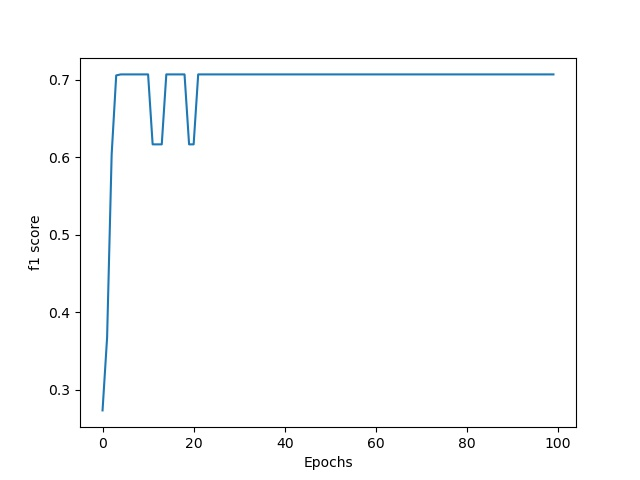
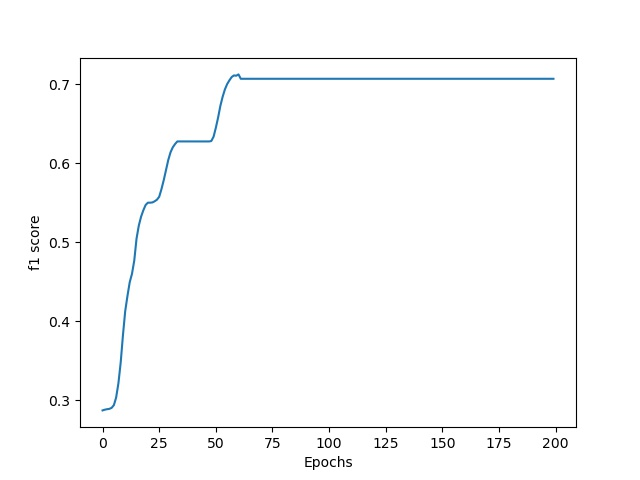
Update

diff --git a/test-lstm.py b/test-lstm.py
@@ -1,18 +1,18 @@
-import numpy as np 
+import numpy as np
 import os
 import pandas as pd
 import torch
 import torch.nn as nn
 import utils
 from torch.utils.data import Dataset, DataLoader
-from net import rnn
+from models import rnn
 import math
 from tqdm import tqdm
-from utils.Setloader import TestSetloader
+from utils.utils import TestSetloader
 
-PATH_submission_example = r'./results/submission_example.csv'
+PATH_submission_example = r'D:\dataset\2021智慧農業數位分身創新應用競賽\org\submission.csv'
 PATH_submission = r'./results/submission.csv'
-PATH_test = r'D:\dataset\2021智慧農業數位分身創新應用競賽\generate_dateset\test_data.npy'
+PATH_test = r'D:\dataset\2021智慧農業數位分身創新應用競賽\dataset_lstm\test_data.npy'
 
 threshold = torch.tensor([0.5])
 
@@ -21,7 +21,6 @@ if torch.cuda.is_available():
     print('Test on GPU...')
 else:
     device = torch.device('cpu')
-
 
 data = np.load(PATH_test, allow_pickle=True)
 data = torch.tensor(data, dtype=torch.float)
@@ -33,24 +32,25 @@ model = rnn.rnn(input_size=18, output_size=11)
 model.to(device)
 
 # 載入預訓練權重
-model.load_state_dict(torch.load('./weights/epoch100-loss0.0682-val_loss0.1551-f10.7070.pth'))
+model.load_state_dict(
+    torch.load('./weights/epoch119-loss0.0835-val_loss0.1468-f10.7070.pth'))
 
 #評估模式
 model.eval()
-outputs_list = np.empty((0,11)) # 11維特徵
+outputs_list = np.empty((0, 11))  # 11維特徵
 total_val_loss = 0
 with tqdm(testloader) as pbar:
     with torch.no_grad():
         for inputs in testloader:
             inputs = inputs.to(device)
-            inputs = inputs.permute(1,0,2)
+            inputs = inputs.permute(1, 0, 2)
             outputs = model(inputs)
-            outputs = (outputs.cpu() > threshold).float()*1
+            outputs = (outputs.cpu() > threshold).float() * 1
             outputs_list = np.vstack((outputs_list, outputs))
             #更新進度條
             pbar.set_description('test')
             pbar.update(1)
 print(outputs_list.shape)
 df = pd.read_csv(PATH_submission_example, index_col=0)
-df.iloc[:,:] = outputs_list
+df.iloc[:, :] = outputs_list
 df.to_csv(PATH_submission)

diff --git a/train-lstm.py b/train-lstm.py
@@ -34,9 +34,9 @@ else:
 # 參數設計
 # batch_size = data.shape[0]
 batch_size = 2000
-epochs = 100
+epochs = 200
 train_rate = 0.8  # 訓練資料集的比例
-lr = 1e-3
+lr = 1e-4
 threshold = torch.tensor([0.5])
 
 # 切割訓練驗證集
@@ -48,8 +48,8 @@ val_y = torch.tensor(label[train_num:])
 trainset = Setloader(train_x, train_y)
 valset = Setloader(val_x, val_y)
 
-trainloader = DataLoader(trainset, batch_size=batch_size, shuffle=True)
-valloader = DataLoader(valset, batch_size=batch_size, shuffle=True)
+trainloader = DataLoader(trainset, batch_size=len(trainset), shuffle=True)
+valloader = DataLoader(valset, batch_size=len(trainset), shuffle=True)
 
 # 定義模型
 model = rnn.rnn(input_size=18, output_size=11)
@@ -64,7 +64,7 @@ optimizer = torch.optim.AdamW(model.parameters(), lr=lr)
 # scheduler = lr_scheduler.StepLR(optimizer, step_size=20, gamma=0.9)
 scheduler = lr_scheduler.CosineAnnealingLR(optimizer,
                                            T_max=epochs,
-                                           eta_min=1e-5,
+                                           eta_min=1e-6,
                                            last_epoch=-1)
 
 loss_list = []
@@ -95,7 +95,7 @@ for epoch in range(1, epochs + 1):
                     'lr': optimizer.state_dict()['param_groups'][0]['lr']
                 })
             pbar.update(1)
-    # scheduler.step()
+    scheduler.step()
 
     #評估模式
     model.eval()

diff --git a/generate_dataset.py b/generate_dataset.py
@@ -32,7 +32,7 @@ data = x_scaler.transform(data)
 all_df.iloc[:, 1:data_num] = data
 
 # 前10個時間點(包含當下)當做訓練資料，若遇到nan則跳過
-n = 288
+n = 10
 train_data = []
 train_label = []
 test_data = []
